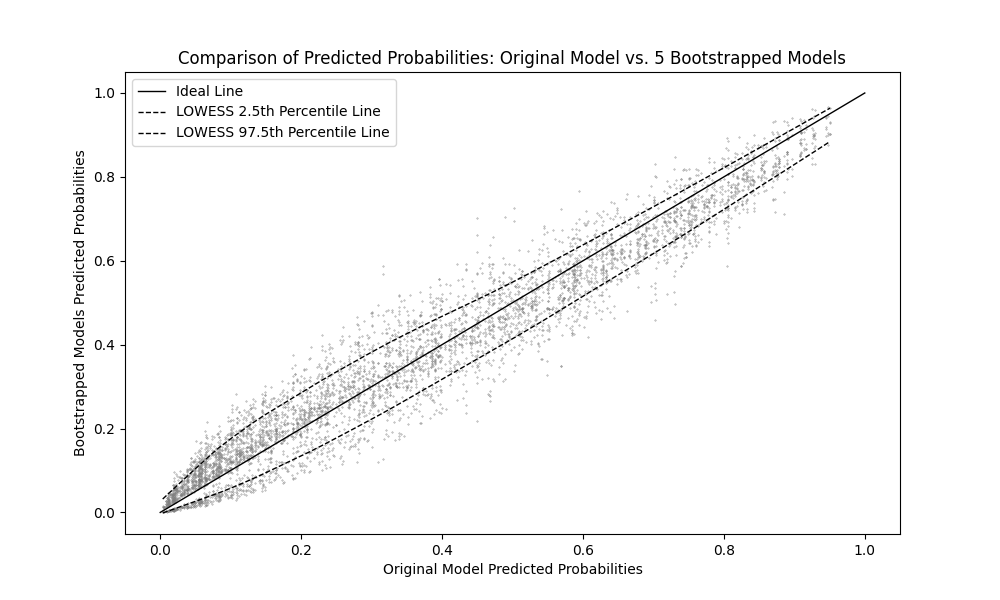
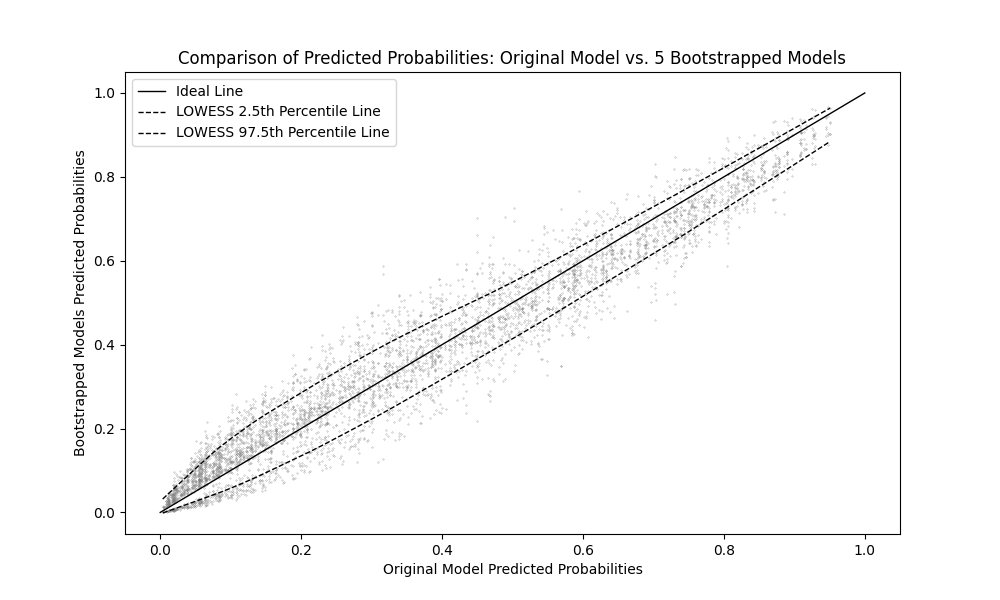
prepare for hpc 1

Changed region(s): [[0.186, 0.72, 0.279, 0.81], [0.31, 0.66, 0.341, 0.69], [0.279, 0.69, 0.31, 0.72]]

diff --git a/main_hpc.py b/main_hpc.py
@@ -7,6 +7,8 @@ from sklearn.calibration import calibration_curve
 import matplotlib.pyplot as plt
 import statsmodels.api as sm
 import os
+import json
+import pickle
 
 # Load dataset
 def load_data(file_path, features, target_column):
@@ -59,6 +61,9 @@ def bootstrap_training(X, df, features, target_column, param_grid, n_bootstrap):
         bootstrap_probs.append(best_model.predict_proba(X)[:, 1])  # Predict on the original dataset
 
     np.save(results + "/bootstrap_probs.npy",  np.array(bootstrap_probs))
+    # Save the list to a JSON file
+    # with open(results + "/bootstrap_models.pkl", "w") as file:
+    #     pickle.dump(bootstrap_models, file)
     return bootstrap_models, np.array(bootstrap_probs)
 
 # Plot comparison of predicted probabilities
@@ -70,7 +75,7 @@ def plot_probability_comparison(original_probs, bootstrap_probs, lowess_2_5, low
         plt.scatter(original_probs, probs, 
                     color='grey',  
                     alpha=1,     # Set transparency
-                    s=0.05)
+                    s=0.1)
 
     # Add ideal line for reference
     plt.plot([0, 1], [0, 1], 'k-', lw=1, label="Ideal Line")
@@ -89,11 +94,12 @@ def plot_probability_comparison(original_probs, bootstrap_probs, lowess_2_5, low
     plt.show()
 
 # Plot calibration curve for original and bootstrapped models
-def plot_calibration_with_bootstrap(origin_predict, bootstrap_models, X, y, n_bootstrap, n_bins=5):
+def plot_calibration_with_bootstrap(original_model, bootstrap_models, X, y, n_bootstrap, n_bins=5):
     plt.figure(figsize=(10, 6))
 
     # Original model calibration curve
-    mean_predicted_prob, observed_fraction = calibration_curve(y, origin_predict, n_bins=n_bins, strategy='uniform')
+    original_probs = original_model.predict_proba(X)[:, 1]
+    mean_predicted_prob, observed_fraction = calibration_curve(y, original_probs, n_bins=n_bins, strategy='uniform')
     plt.plot(mean_predicted_prob, observed_fraction, 'k--', lw=2, label="Original Model (Dashed Line)")
 
     # Bootstrap models calibration curves
@@ -188,7 +194,7 @@ lowess_2_5, lowess_97_5 = calculate_lowess_percentiles(bootstrap_probs, origin_p
 # ## Plot results
 plot_mape_instability(origin_predict, bootstrap_probs)
 plot_probability_comparison(origin_predict, bootstrap_probs, lowess_2_5, lowess_97_5, n_bootstrap)
-plot_calibration_with_bootstrap(origin_predict, bootstrap_models, X, y, n_bootstrap)
+plot_calibration_with_bootstrap(original_model, bootstrap_models, X, y, n_bootstrap)
 
 # SAMPLED DATASET
 ## Results
@@ -239,4 +245,4 @@ def plot_mape_instability2(origin_predict, bootstrap_probs):
 # Plot results
 plot_mape_instability2(origin_predict, bootstrap_probs)
 plot_probability_comparison(origin_predict, bootstrap_probs, lowess_2_5, lowess_97_5, n_bootstrap)
-plot_calibration_with_bootstrap(origin_predict, bootstrap_models, X, y, n_bootstrap)
+plot_calibration_with_bootstrap(original_model, bootstrap_models, X, y, n_bootstrap)
